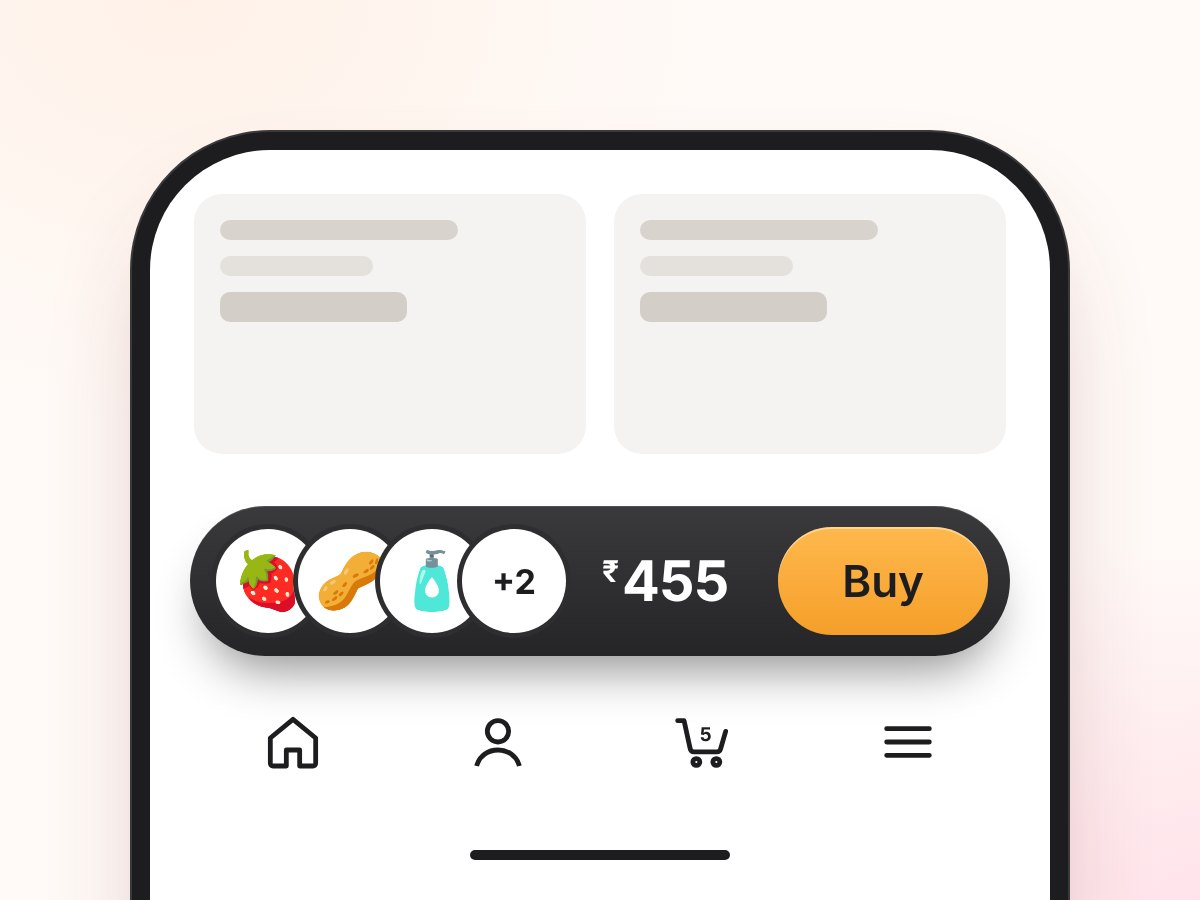
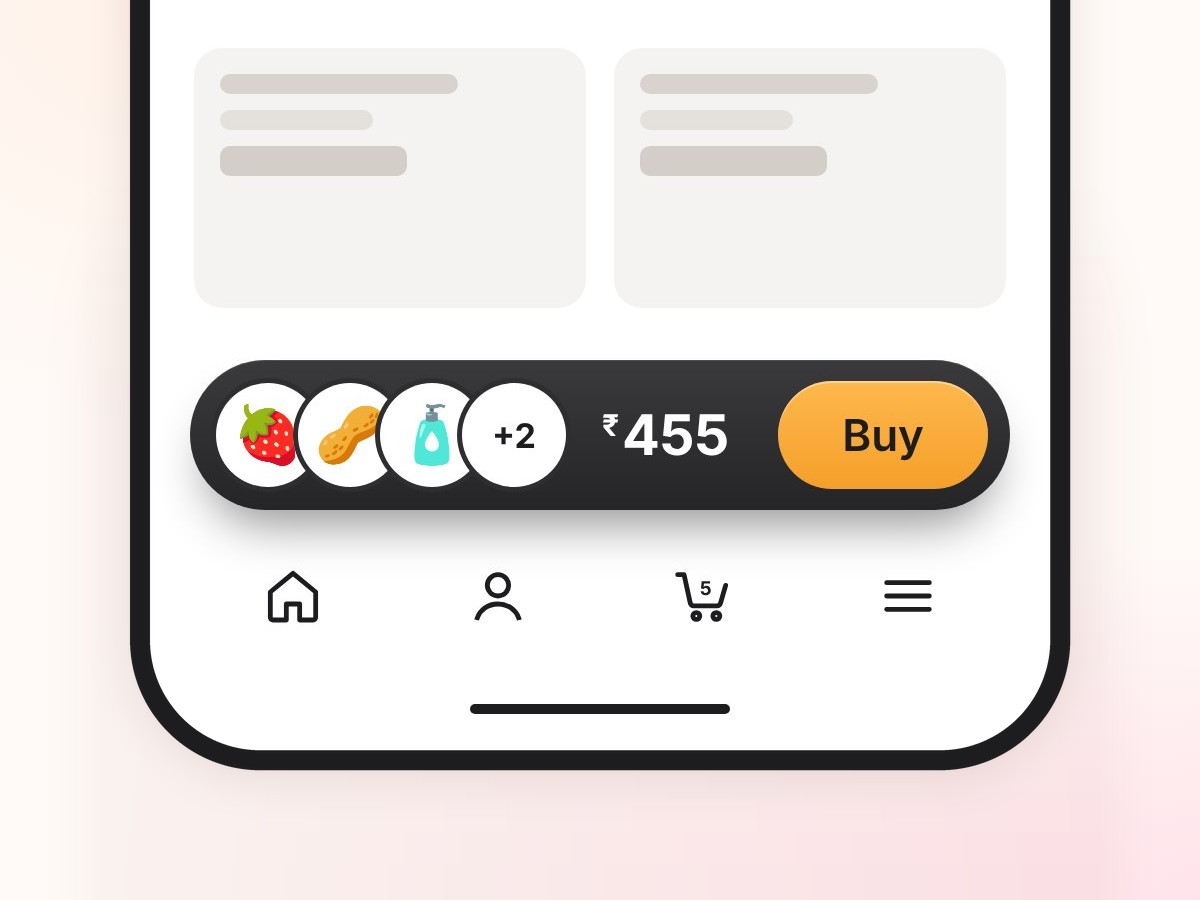
Checkout tray card: show the bottom of the phone, not the top
The tray sits just above the nav bar and home indicator, so the still
now frames the phone's bottom edge to make that placement clear.

Claude-Session: https://claude.ai/code/session_0148cmcEZVsaaiRL7adWuTyw

diff --git a/index.html b/index.html
@@ -239,7 +239,7 @@
               <h5>Checkout wherever you are</h5>
               <p>One-tap checkout is available literally anywhere — the homepage, search, the cart and every page in between — so customers can buy the moment they decide.</p>
             </figcaption>
-            <div class="fw-media"><div class="fw-art has-media"><img src="assets/work/checkout-tray.jpg" alt="Floating checkout tray above the app navigation: product thumbnails, ₹455 and a Buy button" loading="lazy"></div></div>
+            <div class="fw-media"><div class="fw-art has-media"><img src="assets/work/checkout-tray.jpg?v=2" alt="Floating checkout tray at the bottom of the screen, above the app navigation: product thumbnails, ₹455 and a Buy button" loading="lazy"></div></div>
           </figure>
           <figure class="slide">
             <figcaption>
